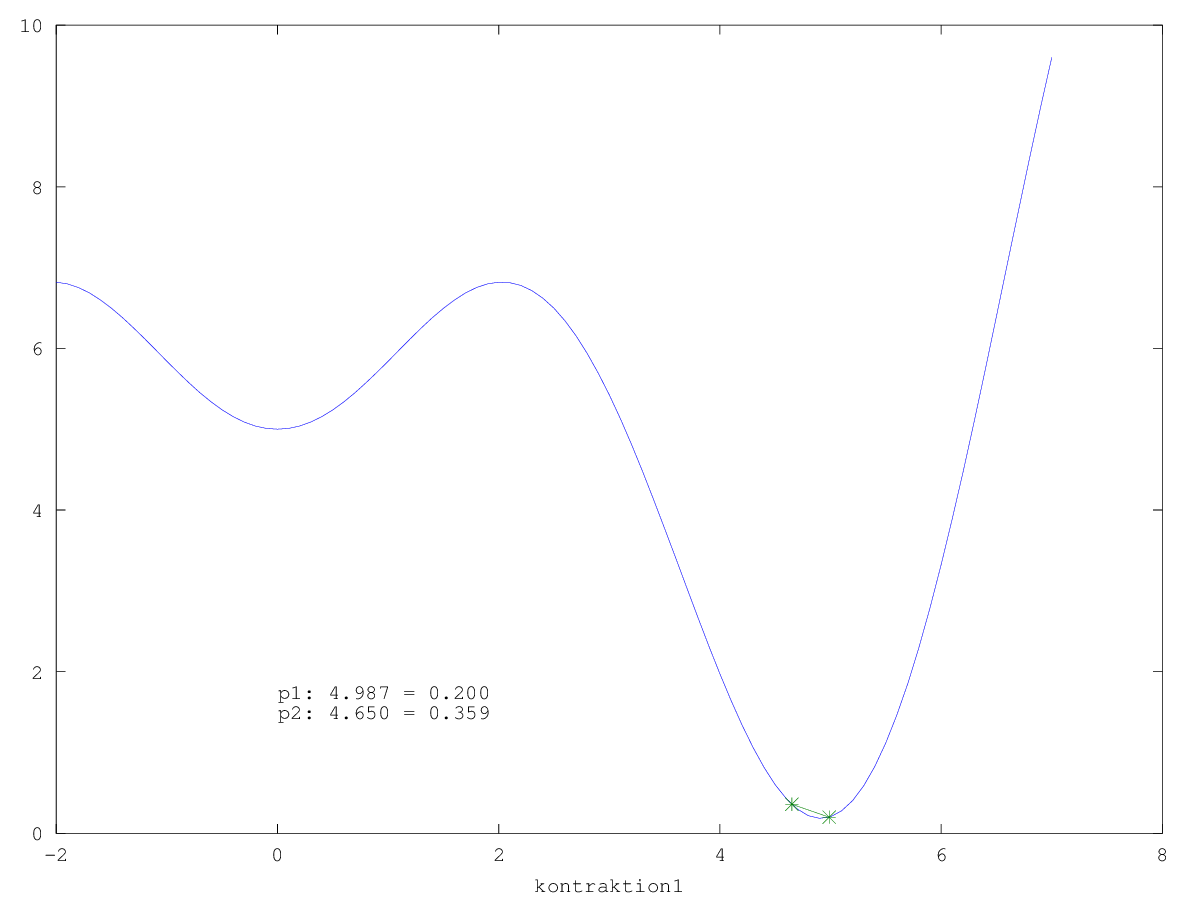
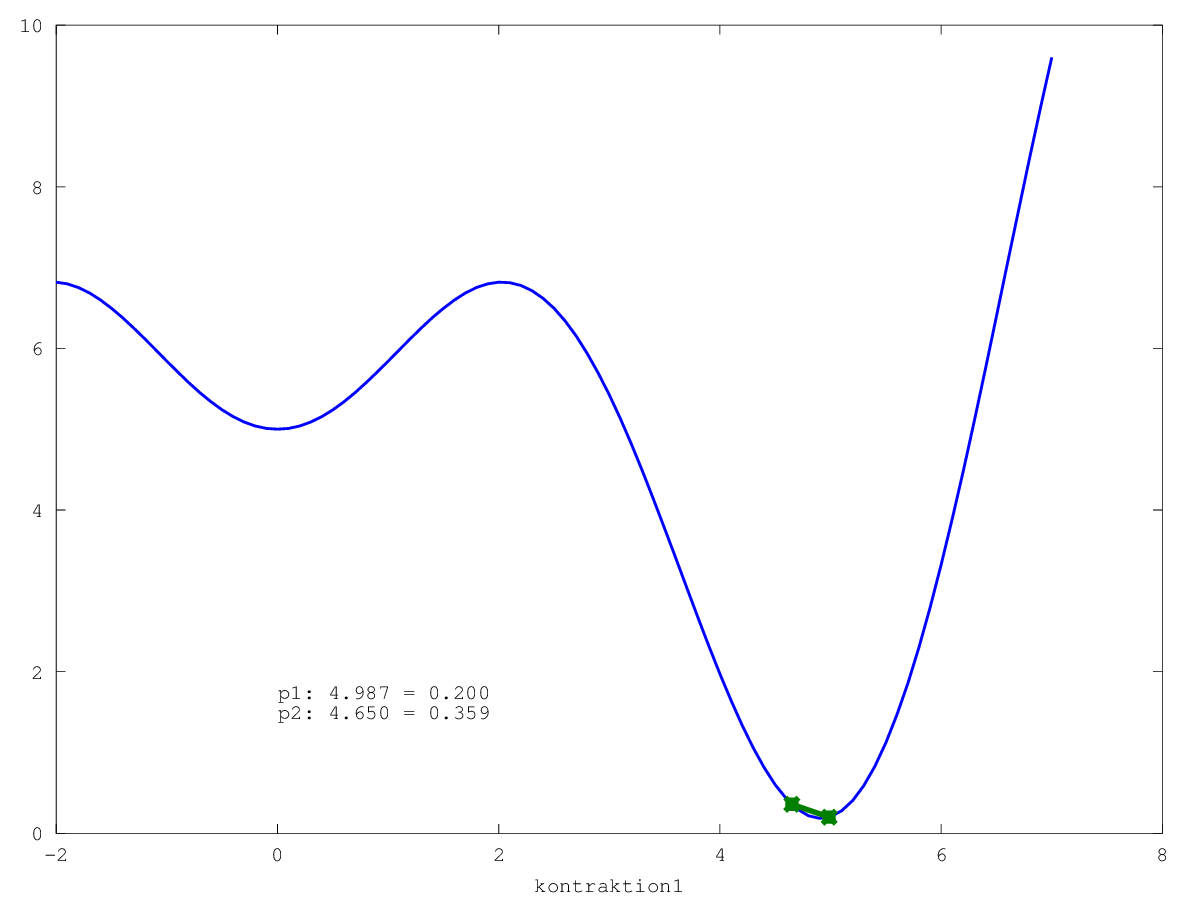
plots mit dickeren linien

diff --git a/matlab/plot1dsimplex.m b/matlab/plot1dsimplex.m
@@ -10,7 +10,7 @@ y = fun(tx);
 mkdir('../bilder/sinxx1')
 for i=1:min(10,size(parts,2))
 	f = figure('Name', sprintf('%d', i))
-	plot(tx, y, parts{i}(:), fun(parts{i}(:)), '-*')
+	plot(tx, y, 'linewidth', 5, parts{i}(:), fun(parts{i}(:)), '-*', 'linewidth', 10)
 	xlabel(labels{i})
 	for n=1:2
 		text(0, 2-n/4, sprintf('p%i: %1.3f = %1.3f', n, parts{i}(n), fun(parts{i}(n))));
@@ -23,7 +23,7 @@ end
 mkdir('../bilder/sinxx2')
 for i=1:min(10,size(parts,2))
 	f = figure('Name', sprintf('%d', i))
-	plot(tx, y, parts{i}(:), fun(parts{i}(:)), '-*')
+	plot(tx, y, 'linewidth', 5, parts{i}(:), fun(parts{i}(:)), '-*', 'linewidth', 10)
 	xlabel(labels{i})
 	for n=1:2
 		text(0, 2-n/4, sprintf('p%i: %1.3f = %1.3f', n, parts{i}(n), fun(parts{i}(n))));
@@ -39,7 +39,7 @@ y = fun(tx);
 mkdir('../bilder/Quadrat')
 for i=1:min(10,size(parts,2))
 	f = figure('Name', sprintf('%d', i))
-	plot(tx, y, parts{i}(:), fun(parts{i}(:)), '-*')
+	plot(tx, y, 'linewidth', 5, parts{i}(:), fun(parts{i}(:)), '-*', 'linewidth', 10)
 	xlabel(labels{i})
 	for n=1:2
 		text(0, 30-n, sprintf('p%i: %1.3f = %1.3f', n, parts{i}(n), fun(parts{i}(n))));
